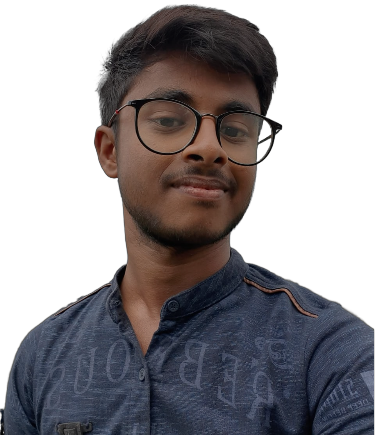
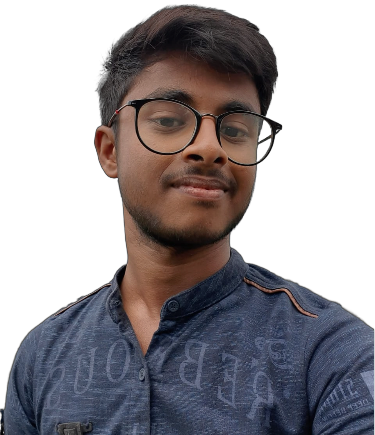
few changes

diff --git a/src/components/Services.jsx b/src/components/Services.jsx
@@ -51,8 +51,8 @@ const Services = () => {
             whileInView={animations.whileInView}
             initial={animations.twoAndThree}
           >
-            <AiFillIeCircle className=" font-semibold text-5xl" />
-            <span className="font-semibold text-lg m-4 tracking-wider">
+            <AiFillIeCircle className=" font-semibold text-6xl h-[35%] lg:h-fit" />
+            <span className="font-semibold text-lg m-4 tracking-wider text-center h-[40%]  lg:h-fit">
               Full Stack Web Development
             </span>
           </motion.div>
@@ -64,8 +64,8 @@ const Services = () => {
               delay: 0.2,
             }}
           >
-            <SiAffinitydesigner className=" font-semibold text-5xl" />
-            <span className="font-semibold text-lg m-4 tracking-wider">
+            <SiAffinitydesigner className=" font-semibold text-5xl h-[35%] lg:h-fit" />
+            <span className="font-semibold text-lg m-4 tracking-wider text-center h-[40%] lg:h-fit ">
               Web Designing
             </span>
           </motion.div>

diff --git a/src/components/About.jsx b/src/components/About.jsx
@@ -20,7 +20,7 @@ import {
 import "../styles/about.css";
 // import { Player, Controls } from "@lottiefiles/react-lottie-player";
 // import animationData from "../Assets/animation2.json";
-import home from "../Assets/transMyImg.png";
+import home from "../Assets/transMyImg2.png";
 
 const About = () => {
   return (
@@ -30,7 +30,7 @@ const About = () => {
           About
         </h2>
         <div className="info  flex flex-col-reverse md:flex-row-reverse md:justify-center md:h-[60vh] justify-around items-center forpic gap-4 md:gap-x-6">
-          <section className="left text-lg text-white font-semibold tracking-wide md:w-[60%] pl-8">
+          <section className="left text-lg text-white font-semibold tracking-wide md:w-[60%] md:pl-8">
             <h3 className="my-7 md:my-10 text-3xl text-center md:text-left font-semibold">
               Know Who <span className="text-[#be50f4]">I'M</span>
             </h3>
